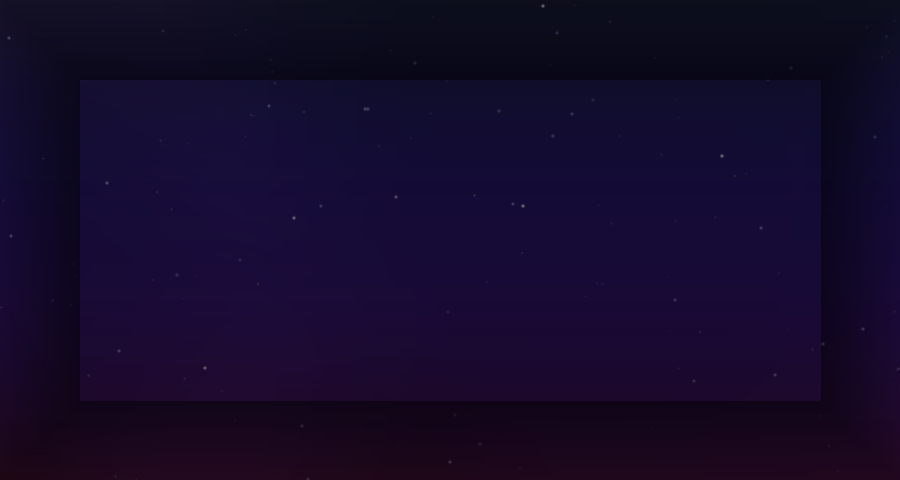
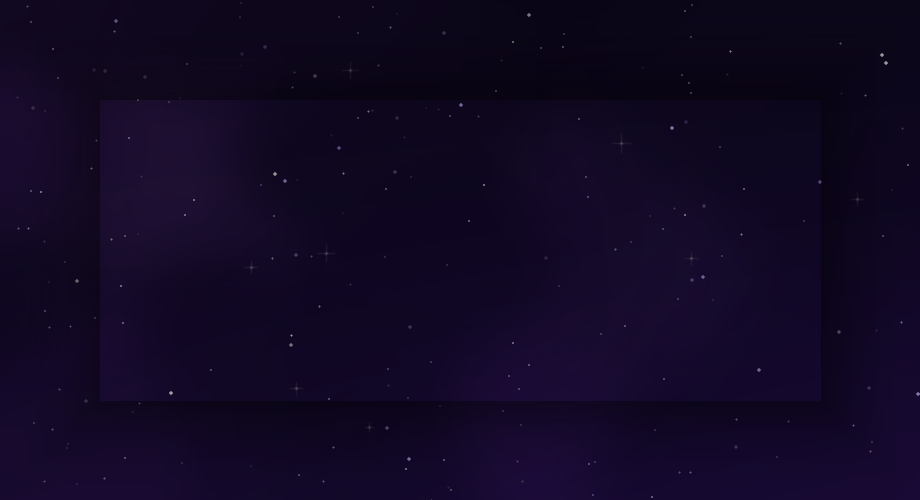
Profile: выровненные панели + красивый полный фон
Выравнивание:
- PAD=16px отступы со всех сторон
- Левая панель: 16..266 (250px)
- Правая секция: 280..904 (624px)
- Верхняя правая: 16..176 (160px)
- Нижние панели: 190..484 (294px), каждая 305px
- Все элементы выровнены по единой сетке

Фон (assets/profile_bg.png):
- Диагональный градиент (тёмный -> фиолетовый)
- 7 больших nebula пятен (размытые через GaussianBlur)
- 12 средних акцентных свечений
- 200+ звёзд/частиц
- 8 ярких крестообразных звёзд
- Тонкие диагональные линии
- Виньетка (затемнение краёв)
- Полный размер 920x500

diff --git a/cogs/profile.py b/cogs/profile.py
@@ -33,10 +33,15 @@ XP_BG = (35, 28, 60)
 XP_A, XP_B = (130, 55, 215), (210, 90, 255)
 
 W, H = 920, 500
-LW = 250
-GAP = 14
-RX = LW + GAP + 18
-RW = W - RX - 18
+PAD = 16          # padding from edges
+LW = 250          # left panel width
+GAP = 14          # gap between panels
+RX = PAD + LW + GAP   # right section start X = 280
+RW = W - PAD - RX     # right section width = 624
+TOP_H = 160           # top right panel height
+BOT_Y = PAD + TOP_H + GAP  # bottom section Y = 190
+BOT_H = H - PAD - BOT_Y   # bottom section height = 294
+PW = (RW - GAP) // 2      # each bottom panel width = 305
 
 
 def _f(bold=False, sz=20):
@@ -356,39 +361,31 @@ def generate_profile_card(avatar, nickname, level, xp, xp_needed,
     img = _bg(W, H)
 
     # Atmospheric glow spots
-    img = _glow_spot(img, 60, 60, 200, NEON, 20, 80)
-    img = _glow_spot(img, W-100, H-80, 180, NEON2, 18, 70)
-    img = _glow_spot(img, W//2, -30, 160, (100,50,200), 12, 60)
+    img = _glow_spot(img, 50, 50, 220, NEON, 18, 80)
+    img = _glow_spot(img, W - 80, H - 60, 200, NEON2, 15, 70)
+    img = _glow_spot(img, W // 2, -20, 180, (100, 50, 200), 10, 60)
 
     d = ImageDraw.Draw(img)
 
-    # Subtle grid
-    grid = Image.new('RGBA', (W,H), (0,0,0,0))
-    gd = ImageDraw.Draw(grid)
-    for x in range(0, W, 50):
-        gd.line([(x,0),(x,H)], fill=(255,255,255,4), width=1)
-    for y in range(0, H, 50):
-        gd.line([(0,y),(W,y)], fill=(255,255,255,4), width=1)
-    img = Image.alpha_composite(img, grid)
-
-    # ─── LEFT PANEL ─────────────────────────────────────────────────
-    lx, ly = 18, 18
-    img = _panel(img, (lx, ly, lx+LW, H-18), 20, PANEL, BORDER, 2)
+    # ─── LEFT PANEL (User) ─────────────────────────────────────────
+    lx = PAD
+    ly = PAD
+    img = _panel(img, (lx, ly, lx + LW, H - PAD), 20, PANEL, BORDER, 2)
     d = ImageDraw.Draw(img)
 
-    # Decorative line at top of panel
-    d.line([(lx+20, ly+2), (lx+LW-20, ly+2)], fill=(*NEON, 60), width=1)
+    # Top accent line
+    d.line([(lx + 20, ly + 2), (lx + LW - 20, ly + 2)], fill=(*NEON, 60), width=1)
 
     # Avatar with double ring
-    av_sz = 155
+    av_sz = 150
     av_x = lx + (LW - av_sz) // 2
-    av_y = ly + 45
+    av_y = ly + 40
 
     # Outer glow ring
-    ring_glow = Image.new('RGBA', (W,H), (0,0,0,0))
+    ring_glow = Image.new('RGBA', (W, H), (0, 0, 0, 0))
     rgd = ImageDraw.Draw(ring_glow)
     p1 = 14
-    rgd.ellipse((av_x-p1, av_y-p1, av_x+av_sz+p1, av_y+av_sz+p1),
+    rgd.ellipse((av_x - p1, av_y - p1, av_x + av_sz + p1, av_y + av_sz + p1),
                 outline=(*NEON, 35), width=12)
     ring_glow = ring_glow.filter(ImageFilter.GaussianBlur(10))
     img = Image.alpha_composite(img, ring_glow)
@@ -396,61 +393,60 @@ def generate_profile_card(avatar, nickname, level, xp, xp_needed,
 
     # Outer ring
     p2 = 6
-    d.ellipse((av_x-p2, av_y-p2, av_x+av_sz+p2, av_y+av_sz+p2),
+    d.ellipse((av_x - p2, av_y - p2, av_x + av_sz + p2, av_y + av_sz + p2),
               outline=(*NEON, 160), width=2)
     # Inner ring
-    d.ellipse((av_x-2, av_y-2, av_x+av_sz+2, av_y+av_sz+2),
+    d.ellipse((av_x - 2, av_y - 2, av_x + av_sz + 2, av_y + av_sz + 2),
               outline=(*BRIGHT, 120), width=1)
 
     # Paste avatar
     img.paste(avatar, (av_x, av_y), avatar)
 
-    # Level badge on avatar
+    # Level badge
     badge_r = 18
     badge_x = av_x + av_sz - 8
     badge_y = av_y + av_sz - 8
-    badge = Image.new('RGBA', (W,H), (0,0,0,0))
+    badge = Image.new('RGBA', (W, H), (0, 0, 0, 0))
     bd = ImageDraw.Draw(badge)
-    bd.ellipse((badge_x-badge_r, badge_y-badge_r, badge_x+badge_r, badge_y+badge_r),
-               fill=(20,14,40,240), outline=(*NEON, 200), width=2)
+    bd.ellipse((badge_x - badge_r, badge_y - badge_r, badge_x + badge_r, badge_y + badge_r),
+               fill=(20, 14, 40, 240), outline=(*NEON, 200), width=2)
     img = Image.alpha_composite(img, badge)
     d = ImageDraw.Draw(img)
     f_badge = _f(bold=True, sz=16)
     lv_txt = str(level)
-    lv_x = _text_cx(d, lv_txt, f_badge, badge_x-badge_r, badge_x+badge_r)
-    d.text((lv_x, badge_y-9), lv_txt, fill=WHITE, font=f_badge)
+    lv_x = _text_cx(d, lv_txt, f_badge, badge_x - badge_r, badge_x + badge_r)
+    d.text((lv_x, badge_y - 9), lv_txt, fill=WHITE, font=f_badge)
 
     # Nickname with backdrop
-    f_nick = _f(bold=True, sz=28)
-    nick_y = av_y + av_sz + 22
-    bb = d.textbbox((0,0), nickname, font=f_nick)
-    nw = bb[2]-bb[0]
-    nh = bb[3]-bb[1]
+    f_nick = _f(bold=True, sz=26)
+    nick_y = av_y + av_sz + 20
+    bb = d.textbbox((0, 0), nickname, font=f_nick)
+    nw = bb[2] - bb[0]
+    nh = bb[3] - bb[1]
     nx = lx + (LW - nw) // 2
 
     # Backdrop
-    bdrop = Image.new('RGBA', (W,H), (0,0,0,0))
+    bdrop = Image.new('RGBA', (W, H), (0, 0, 0, 0))
     ImageDraw.Draw(bdrop).rounded_rectangle(
-        (nx-14, nick_y-8, nx+nw+14, nick_y+nh+10),
-        radius=10, fill=(8,5,18,210))
+        (nx - 14, nick_y - 8, nx + nw + 14, nick_y + nh + 10),
+        radius=10, fill=(8, 5, 18, 210))
     img = Image.alpha_composite(img, bdrop)
     d = ImageDraw.Draw(img)
 
-    # Text shadow
-    for ox in [-1,0,1]:
-        for oy in [-1,0,1]:
-            if ox==0 and oy==0: continue
-            d.text((nx+ox, nick_y+oy), nickname, fill=(30,20,50), font=f_nick)
+    # Text shadow + main
+    for ox in [-1, 0, 1]:
+        for oy in [-1, 0, 1]:
+            if ox == 0 and oy == 0: continue
+            d.text((nx + ox, nick_y + oy), nickname, fill=(30, 20, 50), font=f_nick)
     d.text((nx, nick_y), nickname, fill=WHITE, font=f_nick)
 
-    # Separator
-    sep_y = nick_y + nh + 20
-    # Gradient line
-    for x in range(lx+30, lx+LW-30):
-        t = (x - (lx+30)) / (LW-60)
+    # Gradient separator
+    sep_y = nick_y + nh + 18
+    for x in range(lx + 30, lx + LW - 30):
+        t = (x - (lx + 30)) / (LW - 60)
         alpha = int(100 * math.sin(t * math.pi))
         d.point((x, sep_y), fill=(*NEON, alpha))
-        d.point((x, sep_y+1), fill=(*NEON, alpha//2))
+        d.point((x, sep_y + 1), fill=(*NEON, alpha // 2))
 
     # Server rank
     f_rl = _f(bold=False, sz=11)
@@ -458,105 +454,102 @@ def generate_profile_card(avatar, nickname, level, xp, xp_needed,
     avg_rank = max(1, (rank_messages + rank_voice + rank_balance) // 3)
 
     rl_y = sep_y + 14
-    rx = _text_cx(d, "SERVER RANK", f_rl, lx, lx+LW)
+    rx = _text_cx(d, "SERVER RANK", f_rl, lx, lx + LW)
     d.text((rx, rl_y), "SERVER RANK", fill=MUTED, font=f_rl)
     rv_txt = f"#{avg_rank}"
-    rv_x = _text_cx(d, rv_txt, f_rv, lx, lx+LW)
-    # Glow behind rank
-    d.text((rv_x, rl_y+16), rv_txt, fill=(*NEON, 60), font=f_rv)
-    d.text((rv_x+1, rl_y+16), rv_txt, fill=BRIGHT, font=f_rv)
+    rv_x = _text_cx(d, rv_txt, f_rv, lx, lx + LW)
+    d.text((rv_x + 1, rl_y + 16), rv_txt, fill=(*NEON, 60), font=f_rv)
+    d.text((rv_x, rl_y + 16), rv_txt, fill=BRIGHT, font=f_rv)
 
     # ─── TOP RIGHT: LEVEL ──────────────────────────────────────────
-    ty = 18
-    top_h = 160
-    img = _panel(img, (RX, ty, W-18, ty+top_h), 20, PANEL, BORDER, 2)
+    ty = PAD
+    img = _panel(img, (RX, ty, RX + RW, ty + TOP_H), 20, PANEL, BORDER, 2)
     d = ImageDraw.Draw(img)
 
-    # Decorative accent line
-    d.line([(RX+24, ty+3), (RX+100, ty+3)], fill=(*NEON, 80), width=2)
+    # Accent line
+    d.line([(RX + 24, ty + 3), (RX + 100, ty + 3)], fill=(*NEON, 80), width=2)
 
     f_ll = _f(bold=True, sz=12)
-    f_ln = _f(bold=True, sz=60)
+    f_ln = _f(bold=True, sz=58)
     f_xp = _f(bold=False, sz=13)
 
-    d.text((RX+28, ty+18), "LEVEL", fill=MUTED, font=f_ll)
+    d.text((RX + 28, ty + 18), "LEVEL", fill=MUTED, font=f_ll)
 
-    # Big level number with glow
+    # Level number with glow
     lv_str = str(level)
-    d.text((RX+29, ty+34), lv_str, fill=(*NEON, 50), font=f_ln)
-    d.text((RX+28, ty+33), lv_str, fill=WHITE, font=f_ln)
+    d.text((RX + 29, ty + 36), lv_str, fill=(*NEON, 50), font=f_ln)
+    d.text((RX + 28, ty + 35), lv_str, fill=WHITE, font=f_ln)
 
     # XP info
-    bar_y = ty + top_h - 44
-    d.text((RX+28, bar_y-20), f"{_fmt(xp)} XP", fill=WHITE, font=f_xp)
+    bar_y = ty + TOP_H - 42
+    d.text((RX + 28, bar_y - 20), f"{_fmt(xp)} XP", fill=WHITE, font=f_xp)
     xp_max = _fmt(xp_needed) + " XP"
-    bb2 = d.textbbox((0,0), xp_max, font=f_xp)
-    d.text((W-18-28-(bb2[2]-bb2[0]), bar_y-20), xp_max, fill=MUTED, font=f_xp)
+    bb2 = d.textbbox((0, 0), xp_max, font=f_xp)
+    d.text((RX + RW - 28 - (bb2[2] - bb2[0]), bar_y - 20), xp_max, fill=MUTED, font=f_xp)
 
     # Progress bar
     bw = RW - 56
     bh = 12
     prog = xp / xp_needed if xp_needed > 0 else 0
     bar = _xp_bar(bw, bh, prog)
-    img.paste(bar, (RX+28, bar_y), bar)
+    img.paste(bar, (RX + 28, bar_y), bar)
     d = ImageDraw.Draw(img)
 
     # Percentage
-    pct = f"{int(prog*100)}%"
+    pct = f"{int(prog * 100)}%"
     f_pct = _f(bold=True, sz=11)
-    px = _text_cx(d, pct, f_pct, RX+28, RX+28+bw)
-    d.text((px, bar_y+bh+4), pct, fill=MUTED, font=f_pct)
+    px = _text_cx(d, pct, f_pct, RX + 28, RX + 28 + bw)
+    d.text((px, bar_y + bh + 4), pct, fill=MUTED, font=f_pct)
 
     # ─── BOTTOM: STATS + RANKINGS ─────────────────────────────────
-    by = ty + top_h + GAP
-    bh_total = H - by - 18
-    pw = (RW - GAP) // 2
+    by = BOT_Y
+    bht = BOT_H
 
     # Generate icons
     icons = _gen_icons(42)
-
-    # STATS panel
-    img = _panel(img, (RX, by, RX+pw, by+bh_total), 18, PANEL, BORDER, 2)
-    d = ImageDraw.Draw(img)
 
     f_t = _f(bold=True, sz=12)
     f_v = _f(bold=True, sz=19)
     f_l = _f(bold=False, sz=10)
 
-    tx = _text_cx(d, "STATISTICS", f_t, RX, RX+pw)
-    d.text((tx, by+10), "STATISTICS", fill=MUTED, font=f_t)
-    d.line([(RX+20, by+26), (RX+pw-20, by+26)], fill=(*NEON, 40), width=1)
+    # ── STATS panel (left bottom) ──
+    img = _panel(img, (RX, by, RX + PW, by + bht), 18, PANEL, BORDER, 2)
+    d = ImageDraw.Draw(img)
+
+    tx = _text_cx(d, "STATISTICS", f_t, RX, RX + PW)
+    d.text((tx, by + 10), "STATISTICS", fill=MUTED, font=f_t)
+    d.line([(RX + 20, by + 26), (RX + PW - 20, by + 26)], fill=(*NEON, 40), width=1)
 
     stat_items = [
         (icons['messages'], _fmt(messages), "MESSAGES"),
         (icons['voice'], _fmt_t(voice_seconds), "VOICE TIME"),
         (icons['balance'], f"${_fmt(balance)}", "BALANCE"),
     ]
-    blk_h = (bh_total - 42) // 3
+    blk_h = (bht - 42) // 3
     for i, (icon, val, label) in enumerate(stat_items):
         bx = RX + 8
         bby = by + 34 + i * blk_h
-        bwi = pw - 16
+        bwi = PW - 16
         bhi = blk_h - 6
 
-        img = _panel(img, (bx, bby, bx+bwi, bby+bhi), 10, STAT, (*NEON, 40), 1)
+        img = _panel(img, (bx, bby, bx + bwi, bby + bhi), 10, STAT, (*NEON, 40), 1)
         d = ImageDraw.Draw(img)
 
         iy = bby + (bhi - 42) // 2
-        img.paste(icon, (bx+6, iy), icon)
+        img.paste(icon, (bx + 6, iy), icon)
         d = ImageDraw.Draw(img)
 
-        d.text((bx+54, bby+8), val, fill=WHITE, font=f_v)
-        d.text((bx+54, bby+bhi-16), label, fill=MUTED, font=f_l)
+        d.text((bx + 54, bby + 8), val, fill=WHITE, font=f_v)
+        d.text((bx + 54, bby + bhi - 16), label, fill=MUTED, font=f_l)
 
-    # RANKINGS panel
-    rkx = RX + pw + GAP
-    img = _panel(img, (rkx, by, rkx+pw, by+bh_total), 18, PANEL, BORDER, 2)
+    # ── RANKINGS panel (right bottom) ──
+    rkx = RX + PW + GAP
+    img = _panel(img, (rkx, by, rkx + PW, by + bht), 18, PANEL, BORDER, 2)
     d = ImageDraw.Draw(img)
 
-    tx = _text_cx(d, "RANKINGS", f_t, rkx, rkx+pw)
-    d.text((tx, by+10), "RANKINGS", fill=MUTED, font=f_t)
-    d.line([(rkx+20, by+26), (rkx+pw-20, by+26)], fill=(*NEON, 40), width=1)
+    tx = _text_cx(d, "RANKINGS", f_t, rkx, rkx + PW)
+    d.text((tx, by + 10), "RANKINGS", fill=MUTED, font=f_t)
+    d.line([(rkx + 20, by + 26), (rkx + PW - 20, by + 26)], fill=(*NEON, 40), width=1)
 
     rank_items = [
         (icons['messages'], f"#{rank_messages}", "MESSAGES"),
@@ -566,24 +559,25 @@ def generate_profile_card(avatar, nickname, level, xp, xp_needed,
     for i, (icon, val, label) in enumerate(rank_items):
         bx = rkx + 8
         bby = by + 34 + i * blk_h
-        bwi = pw - 16
+        bwi = PW - 16
         bhi = blk_h - 6
 
-        img = _panel(img, (bx, bby, bx+bwi, bby+bhi), 10, STAT, (*NEON, 40), 1)
+        img = _panel(img, (bx, bby, bx + bwi, bby + bhi), 10, STAT, (*NEON, 40), 1)
         d = ImageDraw.Draw(img)
 
         iy = bby + (bhi - 42) // 2
-        img.paste(icon, (bx+6, iy), icon)
+        img.paste(icon, (bx + 6, iy), icon)
         d = ImageDraw.Draw(img)
 
-        d.text((bx+54, bby+8), val, fill=BRIGHT, font=f_v)
-        d.text((bx+54, bby+bhi-16), label, fill=MUTED, font=f_l)
+        d.text((bx + 54, bby + 8), val, fill=BRIGHT, font=f_v)
+        d.text((bx + 54, bby + bhi - 16), label, fill=MUTED, font=f_l)
 
-    # ─── Watermark ─────────────────────────────────────────────────
+    # Watermark
     f_wm = _f(bold=False, sz=9)
-    d.text((W-80, H-14), "AETHER BOT", fill=(*MUTED, 80), font=f_wm)
+    d.text((W - 80, H - 14), "AETHER BOT", fill=(*MUTED, 80), font=f_wm)
 
     return img.convert('RGB')
+
 
 
 # ═══════════════════════════════════════════════════════════════════════
